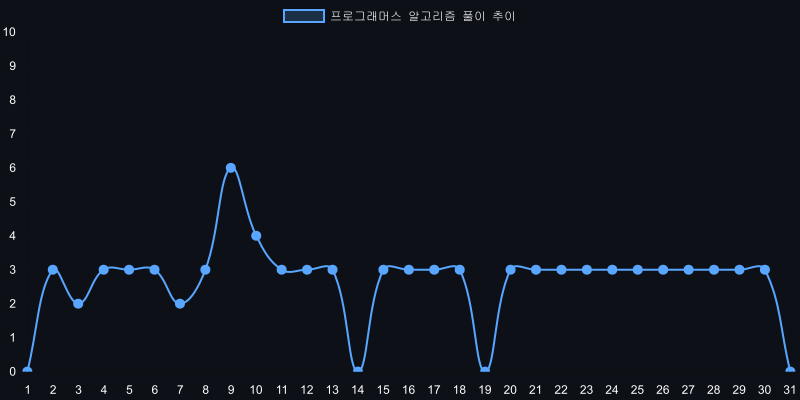
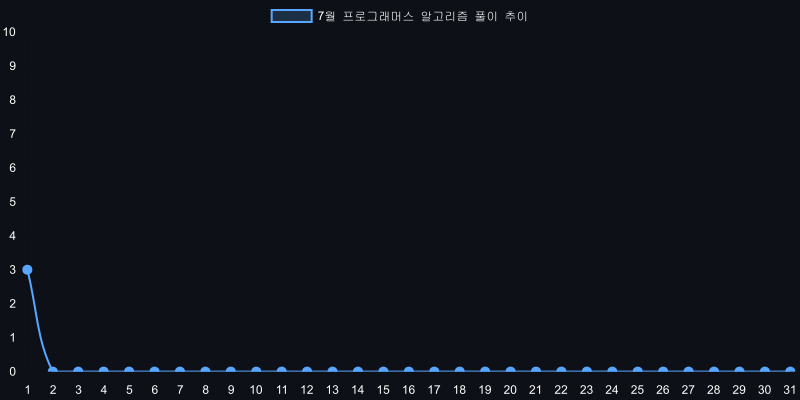
[Programmers] 완주하지 못한 선수
문제: 완주하지 못한 선수

로직
- 참가자 이름을 HashMap에 저장하며 이름별 등장 횟수를 카운트한다.
- 완주자 이름을 순회하며 해당 이름의 개수를 1씩 감소시킨다.
- HashMap을 순회하면서 값이 0이 아닌 이름을 찾아 반환한다.

핵심 구현
- 핵심 코드
  map.put(participant[i], map.getOrDefault(participant[i], 0) + 1);
- 참가자의 이름별 등장 횟수를 저장하여 동명이인까지 처리한다.

- 핵심 코드
  map.put(completion[j], map.get(completion[j]) - 1);
- 완주한 선수의 개수를 차감하여 완주하지 못한 선수만 남도록 한다.

포인트
- HashMap을 이용해 이름과 등장 횟수를 관리한다.
- getOrDefault()를 사용하면 존재하지 않는 Key도 쉽게 초기화할 수 있다.
- 동명이인이 존재하는 경우에도 정확하게 처리할 수 있다.
- 시간복잡도는 O(N)으로 효율적이다.

회고
- 처음에는 contains()와 getOrDefault()의 용도를 혼동했지만, getOrDefault()는 값을 가져오는 메서드이며 put()과 함께 사용해야 한다는 점을 익혔다.
- HashMap을 이용한 빈도수 카운팅 패턴을 다시 한번 학습할 수 있었다.

diff --git a/generate-chart.js b/generate-chart.js
@@ -18,7 +18,7 @@ const configuration = {
     data: {
         labels: Array.from({ length: values.length }, (_, i) => i + 1),
         datasets: [{
-            label: '프로그래머스 알고리즘 풀이 추이',
+            label: '7월 프로그래머스 알고리즘 풀이 추이',
             data: values,
             borderColor: '#58a6ff',
             backgroundColor: 'rgba(88,166,255,0.2)',

diff --git a/programmers/level1/No68.java b/programmers/level1/No68.java
@@ -1,0 +1,55 @@
+package level1;
+
+import java.util.HashMap;
+/*
+문제: 완주하지 못한 선수
+
+로직
+- 참가자 이름을 HashMap에 저장하며 이름별 등장 횟수를 카운트한다.
+- 완주자 이름을 순회하며 해당 이름의 개수를 1씩 감소시킨다.
+- HashMap을 순회하면서 값이 0이 아닌 이름을 찾아 반환한다.
+
+핵심 구현
+- 핵심 코드
+  map.put(participant[i], map.getOrDefault(participant[i], 0) + 1);
+- 참가자의 이름별 등장 횟수를 저장하여 동명이인까지 처리한다.
+
+- 핵심 코드
+  map.put(completion[j], map.get(completion[j]) - 1);
+- 완주한 선수의 개수를 차감하여 완주하지 못한 선수만 남도록 한다.
+
+포인트
+- HashMap을 이용해 이름과 등장 횟수를 관리한다.
+- getOrDefault()를 사용하면 존재하지 않는 Key도 쉽게 초기화할 수 있다.
+- 동명이인이 존재하는 경우에도 정확하게 처리할 수 있다.
+- 시간복잡도는 O(N)으로 효율적이다.
+
+회고
+- 처음에는 contains()와 getOrDefault()의 용도를 혼동했지만, getOrDefault()는 값을 가져오는 메서드이며 put()과 함께 사용해야 한다는 점을 익혔다.
+- HashMap을 이용한 빈도수 카운팅 패턴을 다시 한번 학습할 수 있었다.
+*/
+public class No68 {
+    class Solution {
+        public String solution(String[] participant, String[] completion) {
+            String answer = "";
+
+            HashMap<String, Integer> map = new HashMap<>();
+
+            for(int i = 0; i < participant.length; i++){
+                map.put(participant[i], map.getOrDefault(participant[i],0) + 1);
+            }
+
+            for(int j = 0; j < completion.length; j++){
+                map.put(completion[j], map.get(completion[j]) - 1);
+            }
+
+            for(String key : map.keySet()){
+                if(map.get(key) != 0){
+                    answer = key;
+                }
+            }
+
+            return answer;
+        }
+    }
+}
